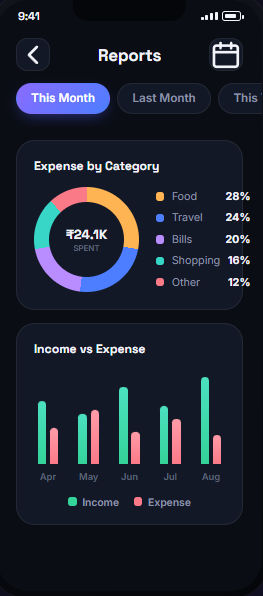
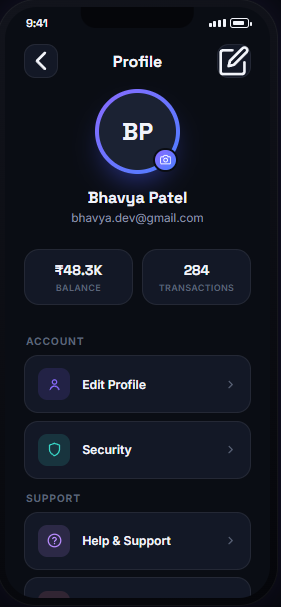
profile screen completed

diff --git a/lib/screens/profile_screen.dart b/lib/screens/profile_screen.dart
@@ -1,7 +1,14 @@
+import 'package:expense_tracker/theme/app_colors.dart';
+import 'package:expense_tracker/widgets/app_bar.dart';
+import 'package:expense_tracker/widgets/drawer.dart';
+import 'package:expense_tracker/widgets/options_tile.dart';
+import 'package:expense_tracker/widgets/profile_avatar.dart';
 import 'package:flutter/material.dart';
+import 'package:google_fonts/google_fonts.dart';
 
 class ProfileScreen extends StatefulWidget {
-  const ProfileScreen({super.key});
+  final void Function(int) onTabSelected;
+  const ProfileScreen({super.key, required this.onTabSelected});
 
   @override
   State<ProfileScreen> createState() => _ProfileScreenState();
@@ -10,6 +17,147 @@ class ProfileScreen extends StatefulWidget {
 class _ProfileScreenState extends State<ProfileScreen> {
   @override
   Widget build(BuildContext context) {
-    return const Placeholder();
+    return Scaffold(
+      appBar: reusableAppBar("Profile"),
+      drawer: reusableDrawer(widget.onTabSelected, context),
+      body: SingleChildScrollView(
+        child: Padding(
+          padding: EdgeInsetsGeometry.all(16),
+          child: Column(
+            crossAxisAlignment: CrossAxisAlignment.start,
+            children: [
+              profileAvatar("BV"),
+              SizedBox(height: 18),
+              Center(
+                child: Text(
+                  "Bhavya Vishnani",
+                  style: GoogleFonts.inter(
+                    color: AppColors.textPrimary,
+                    fontSize: 18,
+                    fontWeight: FontWeight.w800,
+                  ),
+                ),
+              ),
+              Center(
+                child: Text(
+                  "mrvishnani@gmail.com",
+                  style: GoogleFonts.inter(
+                    color: AppColors.textSecondary,
+                    fontSize: 16,
+                  ),
+                ),
+              ),
+              SizedBox(height: 30),
+              Row(
+                mainAxisAlignment: MainAxisAlignment.spaceAround,
+                children: [
+                  Expanded(
+                    child: Container(
+                      padding: EdgeInsets.symmetric(
+                        horizontal: 40,
+                        vertical: 14,
+                      ),
+                      decoration: BoxDecoration(
+                        borderRadius: BorderRadius.circular(18),
+                        color: AppColors.surface2,
+                        border: Border.all(color: AppColors.border, width: 0.3),
+                        shape: BoxShape.rectangle,
+                      ),
+                      child: Column(
+                        children: [
+                          Text(
+                            "₹48.3K",
+                            style: GoogleFonts.inter(
+                              color: AppColors.textPrimary,
+                              fontWeight: FontWeight.w800,
+                              fontSize: 18,
+                            ),
+                          ),
+                          Text(
+                            "BALANCE",
+                            style: GoogleFonts.inter(
+                              color: AppColors.textSecondary,
+                              fontSize: 12,
+                            ),
+                          ),
+                        ],
+                      ),
+                    ),
+                  ),
+                  SizedBox(width: 12),
+                  Expanded(
+                    child: Container(
+                      padding: EdgeInsets.symmetric(
+                        horizontal: 40,
+                        vertical: 14,
+                      ),
+                      decoration: BoxDecoration(
+                        borderRadius: BorderRadius.circular(18),
+                        color: AppColors.surface2,
+                        border: Border.all(color: AppColors.border, width: 0.2),
+                        shape: BoxShape.rectangle,
+                      ),
+                      child: Column(
+                        children: [
+                          Text(
+                            "284",
+                            style: GoogleFonts.inter(
+                              color: AppColors.textPrimary,
+                              fontWeight: FontWeight.w800,
+                              fontSize: 18,
+                            ),
+                          ),
+                          Text(
+                            "TRANSACTIONS",
+                            style: GoogleFonts.inter(
+                              color: AppColors.textSecondary,
+                              fontSize: 12,
+                            ),
+                          ),
+                        ],
+                      ),
+                    ),
+                  ),
+                ],
+              ),
+              SizedBox(height: 30),
+              Text(
+                "ACCOUNT",
+                style: GoogleFonts.inter(
+                  color: AppColors.textSecondary,
+                  fontSize: 16,
+                ),
+              ),
+              SizedBox(height: 12),
+              optionTile(
+                Icons.person_outline_rounded,
+                AppColors.bills,
+                "Edit Profile",
+              ),
+              SizedBox(height: 12),
+              optionTile(
+                Icons.shield_outlined,
+                AppColors.income,
+                "Security",
+              ),
+              SizedBox(height: 12),
+              Text(
+                "SUPPORT",
+                style: GoogleFonts.inter(
+                  color: AppColors.textSecondary,
+                  fontSize: 16,
+                ),
+              ),
+              SizedBox(height: 12),
+              optionTile(
+                Icons.help_outline_outlined,
+                AppColors.violet,
+                "Help & Support",
+              ),
+            ],
+          ),
+        ),
+      ),
+    );
   }
 }

diff --git a/lib/widgets/options_tile.dart b/lib/widgets/options_tile.dart
@@ -1,0 +1,38 @@
+import 'package:expense_tracker/theme/app_colors.dart';
+import 'package:flutter/material.dart';
+import 'package:google_fonts/google_fonts.dart';
+
+Widget optionTile(IconData optionIcon,Color iconColor, String title) {
+  return Container(
+    padding: EdgeInsets.all(16),
+    decoration: BoxDecoration(
+      shape: BoxShape.rectangle,
+      color: AppColors.surface2,
+      borderRadius: BorderRadius.circular(20),
+      border: Border.all(color: AppColors.border, width: 0.2),
+    ),
+    child: Row(
+      children: [
+        Container(
+          padding: EdgeInsets.all(14),
+          alignment: Alignment.center,
+          decoration: BoxDecoration(
+            borderRadius: BorderRadius.circular(16),
+            color: iconColor.withOpacity(0.3),
+          ),
+          child: Icon(optionIcon, size: 20, color: iconColor,),
+        ),
+        SizedBox(width: 12,),
+        Expanded(
+          child: Row(
+            mainAxisAlignment: MainAxisAlignment.spaceBetween,
+            children: [
+              Text(title, style: GoogleFonts.inter(color: AppColors.textPrimary, fontSize: 18, fontWeight: FontWeight.w800),),
+              Icon(Icons.chevron_right_rounded, color: AppColors.border,)
+            ],
+          ),
+        )
+      ],
+    ),
+  );
+}

diff --git a/lib/widgets/profile_avatar.dart b/lib/widgets/profile_avatar.dart
@@ -1,0 +1,37 @@
+import 'package:expense_tracker/theme/app_colors.dart';
+import 'package:flutter/material.dart';
+import 'package:google_fonts/google_fonts.dart';
+
+Widget profileAvatar(String name) {
+  return Center(
+    child: Stack(
+      children: [
+        Container(
+          padding: EdgeInsets.all(30),
+          decoration: BoxDecoration(
+            color: AppColors.surface2,
+            shape: BoxShape.circle,
+            border: Border.all(color: AppColors.violet, width: 6),
+          ),
+          child: Text(
+            name,
+            style: GoogleFonts.inter(
+              color: AppColors.textPrimary,
+              fontSize: 24,
+              fontWeight: FontWeight.w800,
+            ),
+          ),
+        ),
+        Positioned(
+          right: 0,
+          bottom: 0,
+          child: CircleAvatar(
+            maxRadius: 16,
+            backgroundColor: AppColors.violet,
+            child: Icon(Icons.camera_alt_rounded, color: AppColors.textPrimary, size: 16,),
+          ),
+        ),
+      ],
+    ),
+  );
+}

diff --git a/lib/homeshell.dart b/lib/homeshell.dart
@@ -31,7 +31,7 @@ class _HomeshellState extends State<Homeshell> {
           HomeScreen(onTabSelected: _onNavTap,),
           TransactionList(onTabSelected: _onNavTap,),
           ReportsScreen(onTabSelected: _onNavTap,),
-          ProfileScreen(),
+          ProfileScreen(onTabSelected: _onNavTap,),
         ],
       ),
       bottomNavigationBar: CashbookBottomNav(currentIndex: currentIndex, onTap: _onNavTap),
